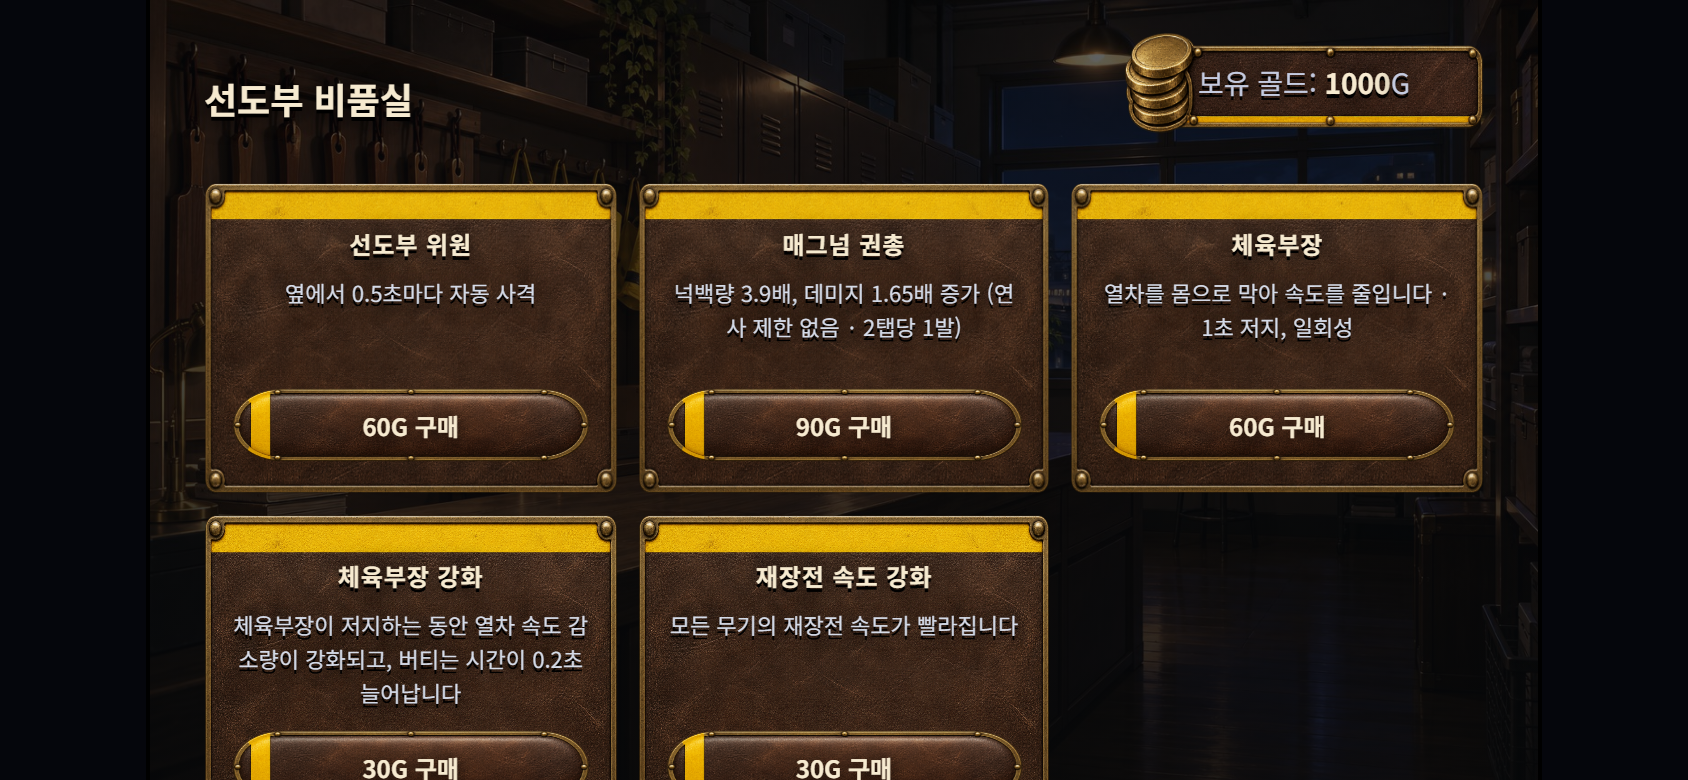
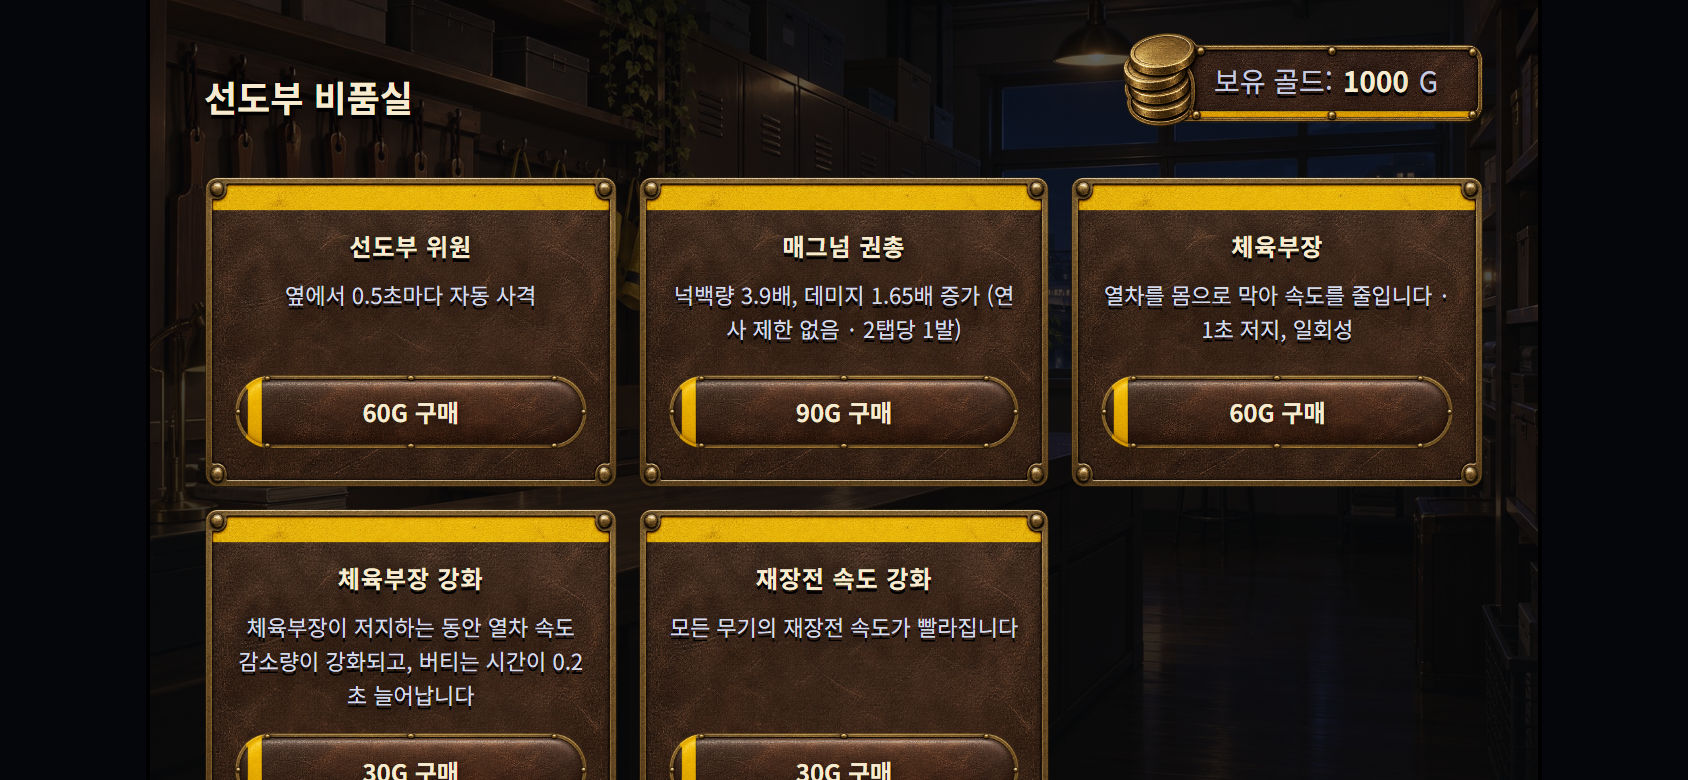
Full-body characters, aligned train front, VFX sprites, 9-slice UI
Built from psh10004okpro/MiniDefence@cb2ff04 (train_stopper.html -> index.html).

diff --git a/index.html b/index.html
@@ -420,6 +420,54 @@
     font-size:11px;
   }
   .toggle-row b{ color:var(--flame-hot); }
+
+  /* ---- 9-slice UI ------------------------------------------------------
+     Plates and bars used to be stretched 100%/100%, so caps, rivets and the
+     whistle/coin ornaments deformed with every box size. Now the caps (--l/--r,
+     in image px) keep their shape via border-image; only the middle repeats.
+     --h is the element height in CSS px, --ih the image height in px. */
+  .ui-bar, button.arcade, .hud-text-row, #hpWrap, #distWrap, .commute-ticket, .stat-row, #hint, #shopGoldLine, #meritLine{
+    --s: calc(var(--h) / var(--ih));
+    height: calc(var(--h) * 1px);
+    box-sizing: border-box;
+    background: none !important;
+    border-style: solid; border-color: transparent; border-radius: 0;
+    border-width: 0 calc(var(--r) * var(--s) * 1px) 0 calc(var(--l) * var(--s) * 1px);
+    border-image-source: var(--img);
+    border-image-slice: 0 var(--r) 0 var(--l) fill;
+    border-image-width: 0 calc(var(--r) * var(--s) * 1px) 0 calc(var(--l) * var(--s) * 1px);
+    border-image-repeat: round stretch;
+  }
+  button.arcade{ --img: url('train_stopper_assets/ui_menu_btn.png'); --ih: 213; --l: 100; --r: 100; --h: 48;
+    display:inline-flex; align-items:center; justify-content:center; padding: 0 10px; line-height:1.1; min-width: 200px; }
+  .menu-col button.arcade{ padding: 0 10px; }
+  button.shop-buy{ --h: 38; min-width: 0; font-size:12px; }
+  #shopContinueBtn{ --img: url('train_stopper_assets/ui_shop_confirm.png'); --h: 56; padding: 0 10px; }
+  #watchAdBtn{ --img: url('train_stopper_assets/ui_btn_red.png'); --ih: 208; --l: 100; --r: 95; --h: 52; }
+  .hud-text-row, #hpWrap, #distWrap, .commute-ticket, .stat-row{ --img: url('train_stopper_assets/ui_hud_row.png'); --ih: 99; --l: 8; --r: 60; }
+  .hud-text-row{ --h: 30; padding: 0 6px; min-width: 176px; }
+  #hpWrap, #distWrap{ --h: 22; }
+  .commute-ticket{ --h: 36; padding: 0 12px; display:flex; align-items:center; justify-content:center; }
+  .stat-row{ --h: 34; padding: 0 12px; }
+  #hint{ --img: url('train_stopper_assets/ui_hint_bar.png'); --ih: 128; --l: 140; --r: 20; --h: 44;
+    padding: 0 12px; display:flex; align-items:center; justify-content:center; }
+  #hint.hidden{ display:none; }
+  #shopGoldLine, #meritLine{ --img: url('train_stopper_assets/ui_gold_plate.png'); --ih: 188; --l: 160; --r: 30; --h: 48;
+    padding: 0 16px 0 6px; display:inline-flex; align-items:center; gap: 5px; min-width: 0; }
+  #testSkipBtn{ --h: 34; min-width: 0; padding: 0 10px; font-size: 11px; }
+  /* panels: true 9-slice, corners fixed, rivet rows repeat */
+  .title-plate, .over-card, .records-card, .settings-card, .settle-card, .ad-plate, .shop-item{
+    background: none !important;
+    border-style: solid; border-color: transparent;
+    border-image-source: var(--img);
+    border-image-slice: var(--t) var(--e) var(--e) var(--e) fill;
+    border-width: var(--tw) var(--ew) var(--ew) var(--ew);
+    border-image-width: var(--tw) var(--ew) var(--ew) var(--ew);
+    border-image-repeat: round;
+  }
+  .title-plate{ --img: url('train_stopper_assets/ui_title_plate.png'); --t: 24; --e: 24; --tw: 16px; --ew: 16px; padding: 6px 16px 6px; }
+  .over-card, .records-card, .settings-card, .settle-card, .ad-plate{ --img: url('train_stopper_assets/ui_over_panel.png'); --t: 40; --e: 22; --tw: 24px; --ew: 13px; padding: 12px 20px 16px; }
+  .shop-item{ --img: url('train_stopper_assets/ui_shop_card.png'); --t: 60; --e: 22; --tw: 18px; --ew: 7px; padding: 8px 8px 12px; }
 </style>
 </head>
 <body>
@@ -843,7 +891,8 @@
   function loadTempArt(){
     // shieldman → warrior → indomitable are the 체육부장 growth line; rambo replaces the
     // companion at its top tier; drone/drone_up hover over the player
-    ['player','train','zombie','companion','civilian','shieldman','warrior','indomitable','rambo','drone','drone_up'].forEach(n=>{
+    ['player','train','zombie','companion','civilian','shieldman','warrior','indomitable','rambo','drone','drone_up',
+     'fx_muzzle','fx_spark','fx_fireball','fx_smoke','fx_ring','fx_block'].forEach(n=>{
       const img = new Image();
       img.src = ASSET_DIR + n + '.png';
       SPR[n] = img;
@@ -863,6 +912,28 @@
     const destW = destH * (img.naturalWidth / img.naturalHeight);
     ctx.drawImage(img, feetX - destW * ax, groundY - destH, destW, destH);
     return destW;
+  }
+  // VFX sprite centered on (x,y); additive blending makes flashes and fire glow over the night scene.
+  // Returns false when the art isn't loaded so callers can fall back to the old vector shapes.
+  function drawFx(name, x, y, size, alpha, rot, additive){
+    if(!sprOk(name)) return false;
+    const img = SPR[name];
+    const w = size, h = size * (img.naturalHeight / img.naturalWidth);
+    ctx.save();
+    ctx.globalAlpha = Math.max(0, Math.min(1, alpha));
+    if(additive) ctx.globalCompositeOperation = 'lighter';
+    ctx.translate(x, y);
+    if(rot) ctx.rotate(rot);
+    ctx.drawImage(img, -w/2, -h/2, w, h);
+    ctx.restore();
+    return true;
+  }
+  // where a sprite's gun barrel ends, from ratios measured on the art (mNx/mNy of its box)
+  function spriteMuzzle(img, feetX, groundY, spr){
+    const destW = spr.destH * (img.naturalWidth / img.naturalHeight);
+    const x0 = feetX - destW * spr.ax;
+    const y0 = groundY + 2 - spr.destH;
+    return { x: x0 + destW * spr.mNx, y: y0 + spr.destH * spr.mNy };
   }
   loadTempArt();
 
@@ -1200,11 +1271,12 @@
   let fireballs = [];    // explosion fireballs
   let bigSmoke = [];     // explosion smoke plumes
   let impactFlashes = []; // quick, bright one-off flashes for heavy-caliber impacts
+  let rings = [];         // expanding shockwave rings (explosions, car-2 reveal)
   const FX_CAP = 150; // bullets + missiles + sparks/smoke/debris/fireballs/floaters/blood
   function fxCount(){
     return bullets.length + missiles.length + sparks.length + floaters.length
       + smoke.length + wheelSparks.length + debris.length + fireballs.length
-      + bigSmoke.length + impactFlashes.length + bloodDrops.length;
+      + bigSmoke.length + impactFlashes.length + rings.length + bloodDrops.length;
   }
   function pushFx(arr, item){
     if(fxCount() >= FX_CAP) return false;
@@ -1705,7 +1777,7 @@
     zombieRoundWillSpawn = false;
     zombieRoundCount = 0;
     zombieSpawnedThisRound = false;
-    debris = []; fireballs = []; bigSmoke = []; bullets = []; missiles = []; impactFlashes = [];
+    debris = []; fireballs = []; bigSmoke = []; bullets = []; missiles = []; impactFlashes = []; rings = [];
   }
 
   function startGame(){
@@ -1795,6 +1867,7 @@
     flashAlpha = 0.9;
     shake = Math.min(22, shake + 16);
     spawnExplosionParticles(cx, cy);
+    pushFx(rings, { x: cx, y: cy, r: 30, life: 1 });
   }
 
   function transitionToSecondCar(cx, cy){
@@ -1804,6 +1877,7 @@
     flashAlpha = 0.9;
     shake = Math.min(22, shake + 16);
     spawnExplosionParticles(cx, cy);
+    pushFx(rings, { x: cx, y: cy, r: 30, life: 1 });
     revealSecondCar();
     warningTimer = WARNING_BLINK_MS;
     warningBlinks = 4; // 4 half-blinks = "Warning" flashes twice
@@ -2136,7 +2210,10 @@
     }, 1000);
   }
 
-  const PLAYER_SPR = { destH: 148, ax: 0.42, mNx: 0.97, mNy: 0.18 };
+  // full-body sprites now (feet on the ground line); heights are canvas px on the 16:9 stage
+  const PLAYER_SPR = { destH: 176, ax: 0.42, mNx: 0.94, mNy: 0.135 };
+  const COMPANION_SPR = { destH: 148, ax: 0.40, mNx: 0.94, mNy: 0.117 };
+  const RAMBO_SPR = { destH: 156, ax: 0.42, mNx: 0.99, mNy: 0.32 };
   const ATK_FPS = 16;
   const ATK_LEN = 4;
   let atkFrame = -1;
@@ -2160,6 +2237,8 @@
 
   function getCompanionMuzzle(px, groundY){
     const companionX = px - 46;
+    if(hasRambo && sprOk('rambo')) return spriteMuzzle(SPR.rambo, companionX + 12, groundY, RAMBO_SPR);
+    if(sprOk('companion')) return spriteMuzzle(SPR.companion, companionX + 10, groundY, COMPANION_SPR);
     const bodyY = groundY - 38;
     return { x: companionX+22, y: bodyY+12 };
   }
@@ -2175,6 +2254,9 @@
     const trainVisible = currentTrainX <= W + 130;
     if(!trainVisible) return false;
     sfx('metal');
+    // small painted spark where the round lands on the train's front
+    pushFx(impactFlashes, { x: currentTrainX - 130 + 8 + Math.random()*24, y: H*0.82 - 110 + Math.random()*70,
+      r: 8 + Math.min(12, knockMult*1.2), life: 1, rot: Math.random()*Math.PI*2 });
 
     const dmg = (flatDamage !== undefined) ? flatDamage : Math.round(hitDamage * dmgMult);
     trainHP = Math.max(0, trainHP - dmg);
@@ -2265,6 +2347,7 @@
   function explodeZombie(x, y){
     sfx('pop');
     shake = Math.min(14, shake + 7);
+    pushFx(impactFlashes, { x, y, r: 22, life: 1, rot: Math.random()*Math.PI*2 });
     for(let i=0;i<20;i++){
       const ang = Math.random()*Math.PI*2;
       const spd = 1.5 + Math.random()*5;
@@ -2656,10 +2739,12 @@
       if(flashT > 0){
         const m = getPlayerMuzzle(px, groundY);
         const r = (hasSniper ? 22 : 16) * flashT + 5;
-        ctx.fillStyle = 'rgba(255,250,220,0.9)';
-        ctx.beginPath(); ctx.arc(m.x, m.y, r*0.4, 0, Math.PI*2); ctx.fill();
-        ctx.fillStyle = 'rgba(255,190,90,0.4)';
-        ctx.beginPath(); ctx.arc(m.x, m.y, r, 0, Math.PI*2); ctx.fill();
+        if(!drawFx('fx_muzzle', m.x + r*1.2, m.y, r*4.4, Math.min(1, flashT*1.4), 0, true)){
+          ctx.fillStyle = 'rgba(255,250,220,0.9)';
+          ctx.beginPath(); ctx.arc(m.x, m.y, r*0.4, 0, Math.PI*2); ctx.fill();
+          ctx.fillStyle = 'rgba(255,190,90,0.4)';
+          ctx.beginPath(); ctx.arc(m.x, m.y, r, 0, Math.PI*2); ctx.fill();
+        }
       }
       ctx.restore();
       return;
@@ -3019,11 +3104,13 @@
       ctx.save();
       ctx.fillStyle = 'rgba(0,0,0,0.4)';
       ctx.beginPath(); ctx.ellipse(cx+4, groundY+2, 22, 5, 0, 0, Math.PI*2); ctx.fill();
-      drawSprite(SPR.companion, cx + 10, groundY + 2, 118, 0.40);
+      drawSprite(SPR.companion, cx + 10, groundY + 2, COMPANION_SPR.destH, COMPANION_SPR.ax);
       if(flashT > 0){
         const m = getCompanionMuzzle(cx + 46, groundY);
-        ctx.fillStyle = 'rgba(255,250,220,0.85)';
-        ctx.beginPath(); ctx.arc(m.x, m.y, 6, 0, Math.PI*2); ctx.fill();
+        if(!drawFx('fx_muzzle', m.x + 12, m.y, 44*flashT + 16, Math.min(1, flashT*1.3), 0, true)){
+          ctx.fillStyle = 'rgba(255,250,220,0.85)';
+          ctx.beginPath(); ctx.arc(m.x, m.y, 6, 0, Math.PI*2); ctx.fill();
+        }
       }
       ctx.restore();
       return;
@@ -3067,7 +3154,11 @@
       ctx.save();
       ctx.fillStyle = 'rgba(0,0,0,0.4)';
       ctx.beginPath(); ctx.ellipse(cx+4, groundY+2, 26, 6, 0, 0, Math.PI*2); ctx.fill();
-      drawSprite(spr, cx + 12, groundY + 2, sprOk('rambo') ? 132 : 120, 0.42);
+      drawSprite(spr, cx + 12, groundY + 2, sprOk('rambo') ? RAMBO_SPR.destH : 120, RAMBO_SPR.ax);
+      if(flashT > 0){
+        const m = getCompanionMuzzle(cx + 46, groundY);
+        drawFx('fx_muzzle', m.x + 16, m.y, 60*flashT + 20, Math.min(1, flashT*1.3), 0, true);
+      }
       const barW = 26, barH = 4;
       const bx = cx-13, by = groundY - 128;
       ctx.fillStyle = '#1a1f1a';
@@ -3256,7 +3347,7 @@
   function drawCivilian(x, feetY){
     if(sprOk('civilian')){
       ctx.save();
-      drawSprite(SPR.civilian, x, feetY + 2, 72, 0.5);
+      drawSprite(SPR.civilian, x, feetY + 2, 80, 0.5);
       const bob = Math.sin(performance.now()/220) * 3;
       drawHelpBubble(x+2, feetY - 78 + bob);
       ctx.restore();
@@ -3326,7 +3417,7 @@
       ctx.beginPath(); ctx.ellipse(x+2, feetY+2, 16, 4, 0, 0, Math.PI*2); ctx.fill();
       const wobble = Math.sin(performance.now()/180) * 2;
       ctx.translate(wobble, 0);
-      drawSprite(SPR.zombie, x, feetY + 2, 78, 0.5);
+      drawSprite(SPR.zombie, x, feetY + 2, 100, 0.5);
       ctx.restore();
       return;
     }
@@ -3512,11 +3603,13 @@
         ctx.rotate(swing);
         ctx.translate(-(x + 18), -(groundY + 2));
       }
-      drawSprite(spr, x + 18, groundY + 2, hasWarrior ? 118 : 110, 0.45);
+      drawSprite(spr, x + 18, groundY + 2, hasWarrior ? 140 : 132, 0.45);
       const blockGlow = blocking ? (0.55 + Math.sin(performance.now()/90)*0.35) : 0;
       if(blocking){
         ctx.fillStyle = `rgba(255,210,120,${Math.max(0,blockGlow)*0.35})`;
         ctx.beginPath(); ctx.arc(x+28, groundY-50, 26, 0, Math.PI*2); ctx.fill();
+        // painted barrier arc on the shield face
+        drawFx('fx_block', x + 18 + SHIELD_REACH - 4, groundY - 62, 110, 0.5 + Math.max(0, blockGlow)*0.4, 0, true);
         ctx.font = "bold 11px 'Noto Sans KR', sans-serif";
         ctx.fillStyle = '#fff2c2';
         if(hasIndomitable){
@@ -3713,10 +3806,12 @@
     if(sprOk('train')){
       const cx = x + 260/2 + gap + bodyW/2;
       const destH = 170;
-      const destW = destH * (SPR.train.naturalWidth / SPR.train.naturalHeight);
+      const ratio = SPR.train.naturalWidth / SPR.train.naturalHeight;
+      const destW = destH * ratio;
+      const car1W = 200 * ratio; // car 1 is drawn at destH 200 starting at x - 130
       ctx.save();
       ctx.globalAlpha = 0.92;
-      ctx.drawImage(SPR.train, cx - destW*0.48, groundY - destH + 22, destW, destH);
+      ctx.drawImage(SPR.train, x - 130 + car1W + gap, groundY - destH + 22, destW, destH);
       ctx.restore();
       return;
     }
@@ -3775,7 +3870,8 @@
     if(sprOk('train')){
       const destH = 200;
       const destW = destH * (SPR.train.naturalWidth / SPR.train.naturalHeight);
-      ctx.drawImage(SPR.train, x - destW*0.48, groundY - destH + 22, destW, destH);
+      // headlight/front of the art at the logical leading edge; the trailing car runs off to the right
+      ctx.drawImage(SPR.train, x - 130, groundY - destH + 22, destW, destH);
       ctx.save();
       ctx.translate(x, 0);
       const barW = 200;
@@ -3788,7 +3884,7 @@
       if(onSecondCar){
         const pulse = 0.25 + Math.sin(performance.now()/140)*0.2;
         ctx.fillStyle = `rgba(220,30,20,${Math.max(0,pulse)})`;
-        ctx.fillRect(-destW*0.48, y0, destW, bodyH);
+        ctx.fillRect(-130, y0, destW, bodyH);
       }
       ctx.restore();
       if(onSecondCar && state === 'playing' && Math.random() < 0.5){
@@ -4141,7 +4237,7 @@
             const groundY = H * 0.82;
             const ex = trainFrontX;
             const ey = groundY - 90;
-            pushFx(impactFlashes, { x: ex, y: ey, r: 30, life: 1 });
+            pushFx(impactFlashes, { x: ex, y: ey, r: 30, life: 1, rot: Math.random()*Math.PI*2 });
             pushFx(fireballs, {
               x: ex, y: ey,
               r: 40, maxR: 120 + Math.random()*35,
@@ -4330,6 +4426,8 @@
       fl.life -= dt*0.006; // burns out fast - a quick, sharp strobe
     });
     impactFlashes = impactFlashes.filter(fl=>fl.life>0);
+    rings.forEach(g=>{ g.r += dt*0.38; g.life -= dt*0.0032; });
+    rings = rings.filter(g=>g.life>0);
 
     if(explosionTimer <= 0 && state === 'exploding'){
       // by the time this fires, either it's the final car (go to the shop) or
@@ -4351,11 +4449,14 @@
   function drawExplosion(){
     bigSmoke.forEach(s=>{
       if(s.delay>0) return;
+      if(drawFx('fx_smoke', s.x, s.y, s.r*2.4, Math.min(1, s.life*0.7), 0, false)) return;
       ctx.fillStyle = `rgba(45,43,40,${Math.min(1,s.life*0.45)})`;
       ctx.beginPath(); ctx.arc(s.x,s.y,s.r,0,Math.PI*2); ctx.fill();
     });
+    rings.forEach(g=>{ drawFx('fx_ring', g.x, g.y, g.r*2, g.life*0.9, 0, true); });
     fireballs.forEach(f=>{
       if(f.delay>0) return;
+      if(drawFx('fx_fireball', f.x, f.y, f.r*2.3, Math.min(1, f.life), 0, true)) return;
       ctx.fillStyle = `rgba(255,248,210,${f.life})`;
       ctx.beginPath(); ctx.arc(f.x,f.y,f.r*0.35,0,Math.PI*2); ctx.fill();
       ctx.fillStyle = `rgba(255,140,40,${Math.min(1,f.life*0.55)})`;
@@ -4371,6 +4472,7 @@
       ctx.restore();
     });
     impactFlashes.forEach(fl=>{
+      if(drawFx('fx_spark', fl.x, fl.y, fl.r*2.8, fl.life, fl.rot || 0, true)) return;
       ctx.fillStyle = `rgba(255,255,255,${fl.life})`;
       ctx.beginPath(); ctx.arc(fl.x,fl.y,fl.r*0.35,0,Math.PI*2); ctx.fill();
       ctx.fillStyle = `rgba(255,235,180,${fl.life*0.45})`;
@@ -4583,7 +4685,7 @@
     // explosion particles run as an overlay independent of state, so the
     // simultaneous car-2 reveal shows them on top of the already-visible train;
     // during a full 'exploding' pause (final car), the train above is hidden
-    if(state === 'exploding' || fireballs.length > 0 || bigSmoke.length > 0 || debris.length > 0 || impactFlashes.length > 0){
+    if(state === 'exploding' || fireballs.length > 0 || bigSmoke.length > 0 || debris.length > 0 || impactFlashes.length > 0 || rings.length > 0){
       updateExplosion(dt);
       drawExplosion();
     }

diff --git a/plan/index.html b/plan/index.html
@@ -300,12 +300,13 @@
   <p>라이브 빌드가 기준이다. 시안이 라이브와 다르면 시안은 후보일 뿐이다.</p>
   <table>
     <tr><th>항목</th><th>기준</th></tr>
-    <tr><td>화면</td><td>가로 16:9 고정, 최대 1920×1080. 캐릭터 왼쪽 16% 지점, 열차는 오른쪽에서 온다. HUD는 좌상(열차 체력·골드·탄약)·우상(거리·연타)·하단(힌트)</td></tr>
+    <tr><td>화면</td><td>가로 16:9 고정, 최대 1920×1080. 캐릭터 왼쪽 16% 지점, 열차는 오른쪽에서 온다. HUD는 좌상(열차 체력·골드·탄약)·우상(거리·연타)·하단(힌트). 캐릭터는 전신 스프라이트로 발이 지면선(화면 높이 82%)에 닿는다 — 선도부장 176px, 동료 148~156px, 체육부장 라인 132~140px, 좀비 100px. 열차 그림의 앞면은 판정선(x−130)에 맞춘다</td></tr>
     <tr><td>글꼴</td><td>영문 제목·배너(STOP THE TRAIN, STAGE 01, TRAIN BREACH)는 <b>Cinzel</b>. 나머지 한글·숫자는 전부 <b>Noto Sans KR</b>. 이미지 안에 글자를 굽지 않는다 — 글자는 HTML로 올린다</td></tr>
     <tr><td>색</td><td>배경 남흑 <code>#07080f</code>·<code>#10131c</code> / UI 가죽 갈색 / 황동 <code>#c9a45c</code>·<code>#e8c37a</code> / 완장 노랑 <code>#f5d000</code>(강조·거리 바) / 크림 글자 <code>#f6ead0</code> / 경고·광고 빨강 <code>#e35d6a</code>. 열차 체력 바만 빨강, 거리 바는 노랑</td></tr>
     <tr><td>버튼</td><td>갈색 가죽 캡슐 + 왼쪽 끝 노란 완장 띠 = 진행·구매·메뉴 전부(게임 시작, 구매, 다음 열차, 근무 수첩, 설정, 닫기) / 빨간 가죽 = 광고 하나뿐. 못 사는 버튼은 흐리게 잠근다</td></tr>
-    <tr><td>패널</td><td>갈색 가죽 판에 황동 리벳 테두리, 위쪽에 노란 띠(<code>ui_over_panel</code>·<code>ui_shop_card</code>·<code>ui_title_plate</code>). HUD 바는 오른쪽이 뾰족한 가죽 띠, 연타 판은 완장 매듭이 그려진 마름모. 비품실과 근무 수첩은 같은 3열 카드 레이아웃을 쓴다</td></tr>
+    <tr><td>패널</td><td>갈색 가죽 판에 황동 리벳 테두리, 위쪽에 노란 띠(<code>ui_over_panel</code>·<code>ui_shop_card</code>·<code>ui_title_plate</code>). HUD 바는 오른쪽이 뾰족한 가죽 띠, 연타 판은 완장 매듭이 그려진 마름모. 비품실과 근무 수첩은 같은 3열 카드 레이아웃을 쓴다. <b>판과 바는 9-slice(<code>border-image</code>)로 그린다</b> — 끝단·리벳·호루라기·동전은 고정하고 가운데만 반복한다. 배경 이미지를 <code>100% 100%</code>로 늘려 붙이지 않는다</td></tr>
     <tr><td>아이콘</td><td>채택안 9 일러스트 아이콘: 하트(열차 체력)·금화(골드)·탄피(탄약)·숫양 열차(거리)·장갑(연타)</td></tr>
+    <tr><td>이펙트</td><td>스프라이트 6종(<code>fx_muzzle</code> 총구 화염, <code>fx_spark</code> 타격 스파크, <code>fx_fireball</code>·<code>fx_smoke</code> 폭발, <code>fx_ring</code> 충격파, <code>fx_block</code> 저지 장벽)을 가산 합성(lighter)으로 그린다. 파편·예광탄은 벡터 그대로</td></tr>
     <tr><td>문구</td><td>짧은 명사형, 가운뎃점(·)으로 잇는다. 모바일 기준이라 「클릭」이 아니라 「탭」. 숫자 단위: 골드 <code>G</code>, 연타 <code>타/초</code>, 공로는 단위 없이 숫자</td></tr>
   </table>
   <p><span class="st ok">결정</span> UI 프레임을 캐릭터 톤에 맞췄다. 후보였던 플랫 라인 키트(13~16안) 대신, 같은 갈색·노랑·빨강을 <b>가죽·황동 재질</b>로 옮겼다 — 일러스트 스프라이트·배경과 같은 그림체를 유지하면서 완장 띠로 선도부를 드러낸다. 새 UI 조각은 <code>tools/art_proto.mjs</code>의 <code>UI</code> 스타일 문자열로 만든다.
@@ -342,7 +343,7 @@
     <tr><td><code>plan/mash-feasibility.md</code></td><td>연타 장르 시장성 조사 (근거 자료)</td><td><span class="st ok">참고</span></td></tr>
     <tr><td><code>concept/index.html</code></td><td>UI 보드: 전투 시안 + 키트 1~18안. <code>concept/ref/</code>는 선도부 캐릭터 레퍼런스</td><td><span class="st wait">후보</span></td></tr>
     <tr><td><code>flow_doc_assets/</code></td><td>스플래시·인트로 등 연출 이미지 (이 문서가 씀)</td><td><span class="st ok">기준</span></td></tr>
-    <tr><td><code>tools/</code></td><td>아트 파이프라인 <code>art_proto.mjs</code>(생성) → <code>art_review.mjs</code>(GPT-6 Astra 비전 검수) → <code>pack_proto_art.py</code>(에셋 반영), 화면 촬영 <code>shoot_screens.py</code>, 검증 <code>verify_*</code>. <code>elice_*</code>·<code>pack_elice_art.py</code>·<code>pack_seondo_art.py</code>는 이전 세대 파이프라인</td><td><span class="st ok">기준</span></td></tr>
+    <tr><td><code>tools/</code></td><td>아트 파이프라인 <code>art_proto.mjs</code>·<code>art_fix.mjs</code>(생성·편집) → <code>art_review.mjs</code>(GPT-6 Astra 비전 검수) → <code>pack_proto_art.py</code>·<code>pack_fix_art.py</code>(에셋 반영) → <code>optimize_assets.py</code>, 화면 촬영 <code>shoot_screens.py</code>, 검증 <code>verify_*</code>. <code>elice_*</code>·<code>pack_elice_art.py</code>·<code>pack_seondo_art.py</code>는 이전 세대 파이프라인</td><td><span class="st ok">기준</span></td></tr>
     <tr><td><code>elice.env</code> · <code>elice_out/</code></td><td>이미지 API 키(커밋 금지, .gitignore) · 생성 원본과 검수 결과(커밋 안 함)</td><td>로컬</td></tr>
     <tr><td><code>archive/</code></td><td>v2 기획서, 학생회 세계관, 게임 플로우 설계서(구현 완료), UI 1~6안 보드, 쓰이지 않는 시안</td><td>폐기</td></tr>
   </table>
